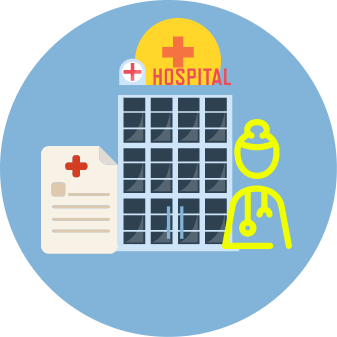
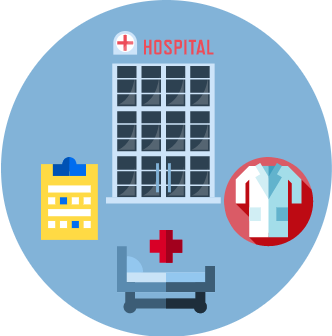
UI changes

diff --git a/templates/base.html b/templates/base.html
@@ -345,7 +345,7 @@
 				<div class="col-sm-4 md-margin-bottom-40">
 					<div class="thumbnails-v1">
 						<div class="thumbnail-img">
-							<img class="img-responsive" src="{% static "img/transport-main.png" %}" alt="">
+							<img class="img-responsive" src="{% static "img/hotel-main.png" %}" alt="">
 						</div>
 						
 					</div>
@@ -368,7 +368,7 @@
 				<div class="col-sm-4 md-margin-bottom-40">
 					<div class="thumbnails-v1">
 						<div class="thumbnail-img">
-							<img class="img-responsive" src="{% static "img/hospital-main2.png" %}" alt="">
+							<img class="img-responsive" src="{% static "img/transport-main.png" %}" alt="">
 						</div>
 						
 					</div>
@@ -409,7 +409,7 @@
 				<div class="col-sm-4 md-margin-bottom-40">
 					<div class="thumbnails-v1">
 						<div class="thumbnail-img">
-							<img class="img-responsive" src="http://htmlstream.com/preview/unify-v1.9.5/assets/img/masonry/blog2.jpg" alt="">
+							<img class="img-responsive" src="{% static "img/care-main.png" %}" alt="">
 						</div>
 						
 					</div>
